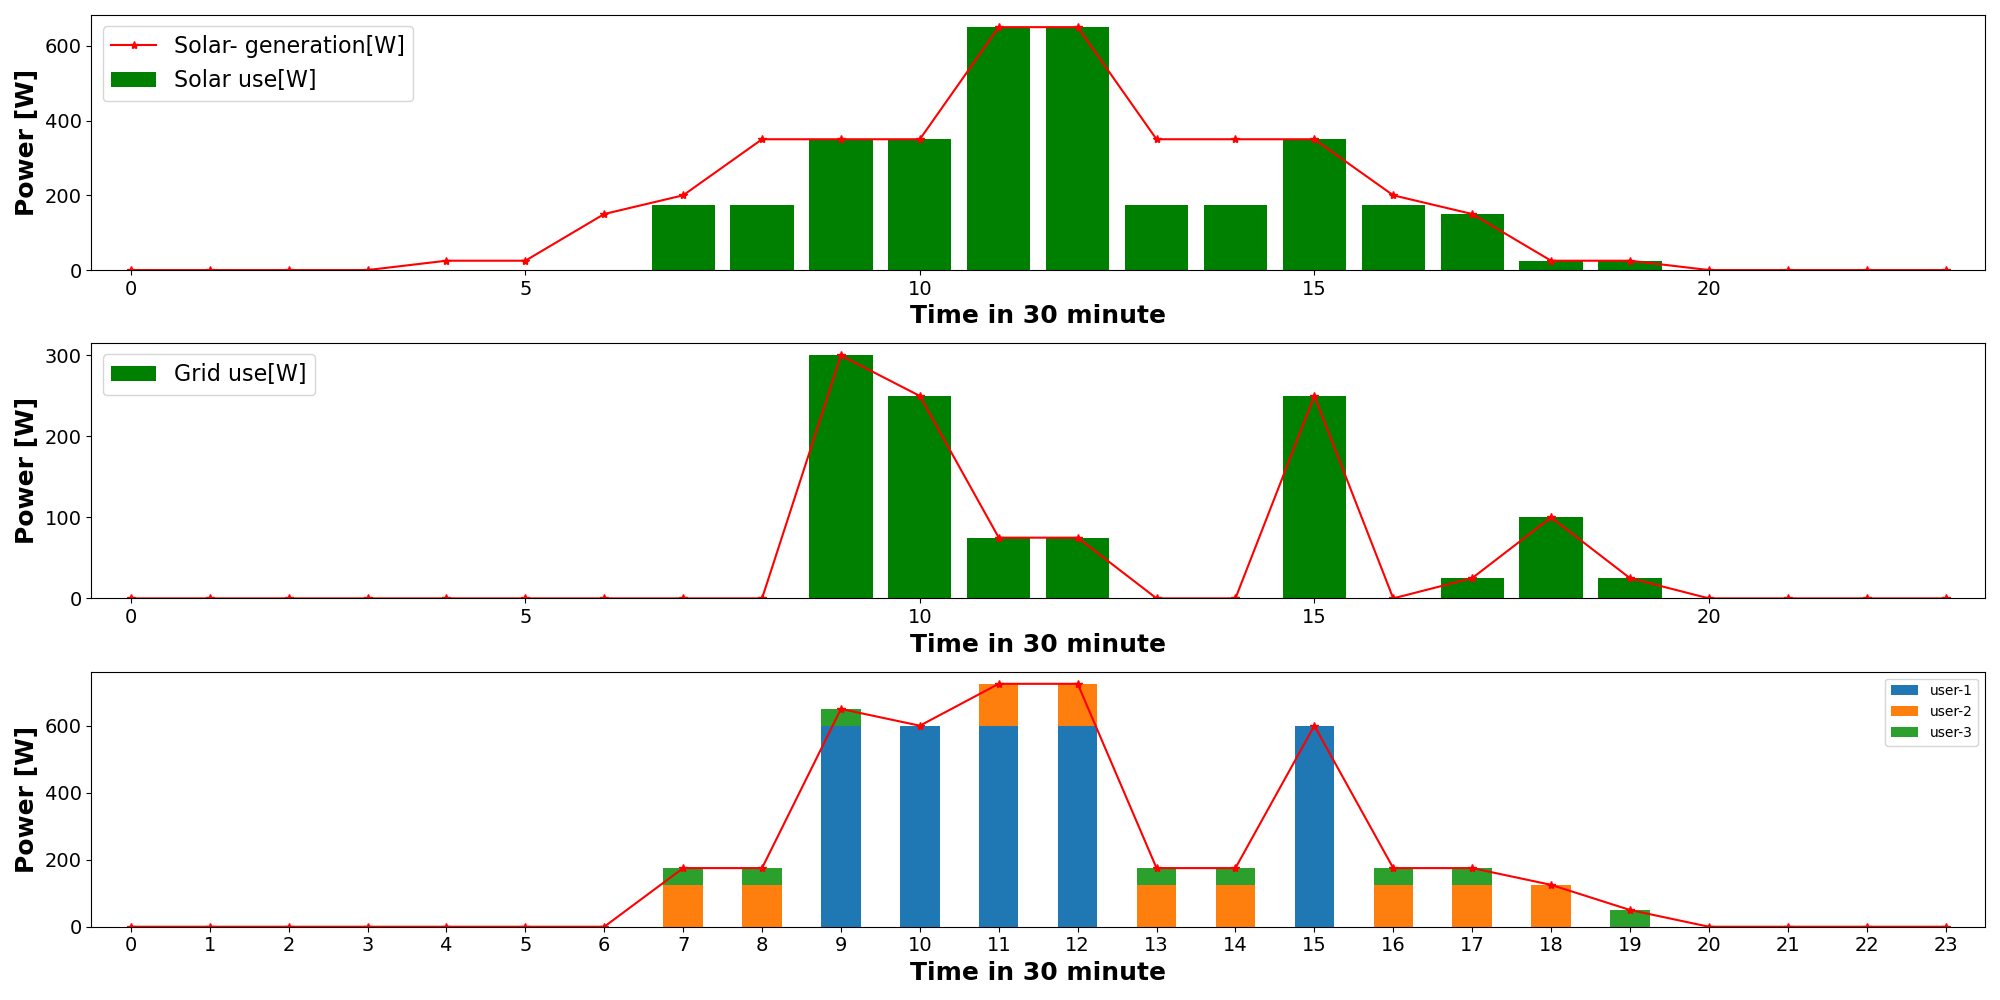
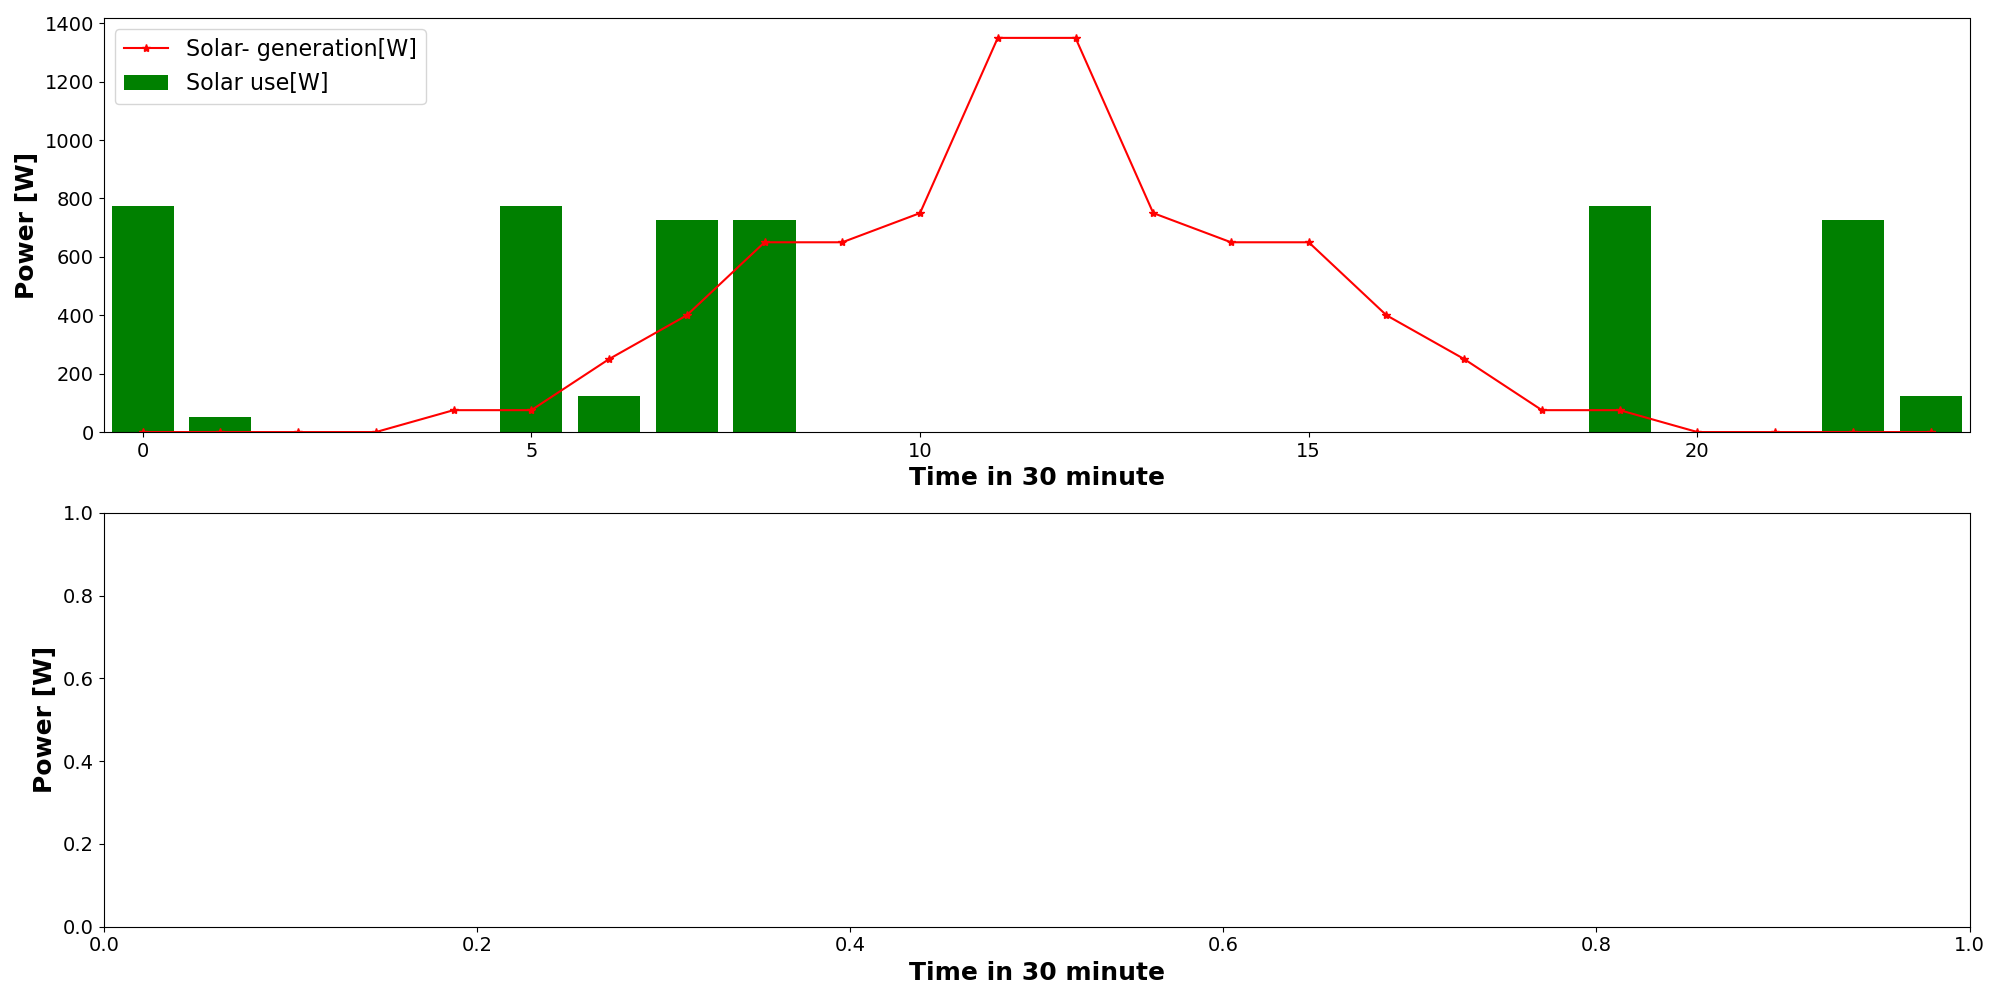
env debuged

diff --git a/multi_user_powerSystem_RL/environments.py b/multi_user_powerSystem_RL/environments.py
@@ -20,7 +20,7 @@ class Environment:
         self.total_consumption = 0
         self.total_supply = 0
         self.operate = [0, 0, 0]
-        self.use_pv_list = [1]
+        self.use_pv_list = [0,1]
         self.agents = ["agent1", "agent2", "agent3"]
         self.num_agent = len(self.agents)
         self.config = {"SolarPV": (0, 0, 0, 0, 50, 50,
@@ -99,6 +99,7 @@ class Environment:
             use_pv = sum(np.array(self.config[pvlist[i]]) for i in self.use_pv_list)
         else:
             use_pv = self.config[pvlist[self.use_pv_list[0]]]
+        self.pv_gen = use_pv
         self.supply = use_pv[self.steps]
 
         penalty = [0 for _ in range(self.num_agent)]
@@ -109,7 +110,7 @@ class Environment:
 
         # operate calculation from action taken by agents
         for i, act in enumerate(action_n.flatten()):
-            if 0 <= act:
+            if 0 < act:
                 self.operate[i] = 1  # ON
                 self.flag[i] = 1
             else:
@@ -122,9 +123,16 @@ class Environment:
                 self.agent3_act.append(self.operate[2])
         # reward calculation
         cost: int = 0
-        balance = 10*(self.supply/1000)-10*(0.6 * self.flag[0] * self.finish_oper[0] + 0.125 * self.flag[1] * self.finish_oper[1] + 0.05 * self.flag[2] * self.finish_oper[2])
-        # if 5 < self.agent1_act.count(1)<6  or 4 < self.agent2_act.count(1) < 7 or 4 < self.agent3_act.count(1) < 7:
-        #     balance += 1
+        need_p = 0.6 * self.flag[0] + 0.125 * self.flag[1] + 0.05 * self.flag[2] 
+        if (self.supply/1000) > need_p:
+            balance = need_p
+        elif self.supply==0 and need_p==0:
+            balance = 2
+        else:
+            balance = -10
+        #balance = 10*(self.supply/1000)-1*(0.6 * self.flag[0] * self.finish_oper[0] + 0.125 * self.flag[1] * self.finish_oper[1] + 0.05 * self.flag[2] * self.finish_oper[2])
+        if 2 < self.agent1_act.count(1)<6  or 6 < self.agent2_act.count(1) < 10 or 5 < self.agent3_act.count(1) < 9:
+            balance += 1
         # self._reset_total_supply(balance)
         cost += balance  # ** 2
         rew_n = [cost, cost, cost]
@@ -132,14 +140,13 @@ class Environment:
         for i in range(len(obs_n)):
             if obs_n[i][1] < 0 and self.operate[i] == 1:  # no pV time more than 1 user penalty
                 rew_n[i] -= 100
-
         for i, act in enumerate(action_n.flatten()):
             if self.steps < self.config[self.agents[i]][4] and self.operate[i] == 1:  # early morning open penalty
                 rew_n[i] -= 100
             elif self.steps > self.config[self.agents[i]][3] and self.operate[i] == 1:  # early morning open penalty
-                rew_n[i] -= 10
+                rew_n[i] -= 100
             elif sum(self.operate) > 2 and act > 0 and self.supply == 0:  # more than 2 at same time penalty
-                rew_n[i] -= 10
+                rew_n[i] -= 100
 
         for i, act in enumerate(action_n.flatten()):
             if self.oper_time[i] > 0 and self.flag[i] == 1:
@@ -148,8 +155,8 @@ class Environment:
                     self.finish_oper[i] = 0
 
         if (self.steps >= self.config["agent1"][3] and self.agent1_act.count(1) < self.config["agent1"][1]) or (
-                self.steps >= self.config["agent2"][3] and self.agent1_act.count(1) < self.config["agent2"][1]) or (
-                self.steps >= self.config["agent3"][3] and self.agent1_act.count(1) < self.config["agent3"][1]):
+                self.steps >= self.config["agent2"][3] and self.agent2_act.count(1) < self.config["agent2"][1]) or (
+                self.steps >= self.config["agent3"][3] and self.agent3_act.count(1) < self.config["agent3"][1]):
             done = [True for _ in range(self.n)]
 
         if self.steps == 0:
@@ -159,13 +166,16 @@ class Environment:
 
         operation_time = [0 for _ in range(self.num_agent)]
         terminal = [1 for _ in range(self.num_agent)]
-        for i in range(len(obs_n)):
-            operation_time[i] = obs_n[i][1] - self.operate[i]
-            terminal[i] -= self.operate[i]
-            if operation_time[i] == 0:
-                break
-        # next_obs_n = [[((self.steps + 1) * terminal[i])/24, operation_time[i],self.operate[0],self.operate[1],self.operate[2]] for i in range(self.n)]
-        next_obs_n = [[((self.steps + 1) * terminal[i]), operation_time[i], self.supply] for i in range(self.n)]
+        acts_list=[self.agent1_act,self.agent2_act,self.agent3_act]
+        for i, acts in enumerate(acts_list):
+            if (self.config[self.agents[i]][1] - acts.count(1))>0:
+                operation_time[i] = 1
+                terminal[i] -= self.operate[i]
+            else:
+                operation_time[i] = self.config[self.agents[i]][1] - acts.count(1)
+                terminal[i] = -1
+
+        next_obs_n = [[(self.steps + 1)*terminal[i]/24, operation_time[i]*self.config[self.agents[i]][0]/self.supply, self.supply/1000] for i in range(self.n)]
         # print("next_obs_n,rew_n,done,steps",next_obs_n,rew_n,done,self.steps,action_n.flatten(),agent1)
         return next_obs_n, rew_n, done, {}
 

diff --git a/multi_user_powerSystem_RL/env_vis.py b/multi_user_powerSystem_RL/env_vis.py
@@ -1,0 +1,81 @@
+from typing import List
+import pandas as pd
+import numpy as np
+import os
+import matplotlib.pyplot as plt
+
+
+class EPlot():
+    """
+    class for plot optimize model output
+    ----------
+    Parameters
+    ----------
+    model : model
+    inf_cls : class having model information
+    """
+
+    def __init__(self, actions: List=[],inf_cls=None) -> None:
+        self.plot_path = "./plot_ouput/"
+        os.makedirs(self.plot_path, exist_ok=True)
+        self.actions = actions
+        self.u_class = inf_cls
+        self.clear_plot()
+        self.t = len(self.actions[0])
+        self.us = self.u_class.num_agent
+        self.user_plot()
+        self.source_plot()
+        # self.dam_plot(model)
+        # self.branch_plot(model)
+        # self.dam_dam_in_out_total_plot(model)
+        # self.dam_dam_in_out_plot(model)
+
+    def user_plot(self):
+        fig, ax = plt.subplots(self.us, figsize=(20, 10))
+        for us in range(self.us):
+            plt.rc('xtick', labelsize=14)
+            plt.rc('ytick', labelsize=14)
+            ax[us].set_xlabel("Time in 30 minute", fontdict={"fontsize": 18, "fontweight": "bold"})
+            ax[us].set_ylabel("Power [W]", fontdict={"fontsize": 18, "fontweight": "bold"})
+            power_use = [self.actions[us][t]*self.u_class.config[self.u_class.agents[us]][0] for t in range(self.t)]
+            x_axis = list(range(self.t))
+            ax[us].plot(x_axis, power_use, "r-*", label="Use-"+str(us)+"[W]")
+            ax[us].bar(x_axis, power_use, color="g", label="Solar use[W]")
+            ax[us].set_xlim(-0.5, self.t-0.5)
+            ax[us].set_title("User-"+str(us))
+            h1, l1 = ax[us].get_legend_handles_labels()
+            ax[us].legend(h1, l1, prop={'size': 16}, bbox_to_anchor=(0, 1), loc='upper left')
+        fig.tight_layout()
+        plt.savefig(self.plot_path+"user_info"+"-gen.png")
+        plt.close()
+
+    def source_plot(self):
+        fig, ax = plt.subplots(2, figsize=(20, 10))
+        for s_n in range(2):
+            plt.rc('xtick', labelsize=14)
+            plt.rc('ytick', labelsize=14)
+            ax[s_n].set_xlabel("Time in 30 minute", fontdict={"fontsize": 18, "fontweight": "bold"})
+            ax[s_n].set_ylabel("Power [W]", fontdict={"fontsize": 18, "fontweight": "bold"})
+            if s_n==0:
+                gen_solar = [self.u_class.pv_gen[t] for t in range(self.t)]
+                total_p = [sum(self.actions[us][t]*self.u_class.config[self.u_class.agents[us]][0] for us in range(self.us))for t in range(self.t)]
+                x_axis = list(range(self.t))
+                ax[0].plot(x_axis, gen_solar, "r-*", label="Solar- generation"+"[W]")
+                ax[0].bar(x_axis, total_p, color="g", label="Solar use[W]")
+                ax[0].set_xlim(-0.5, self.t-0.5)
+                h1, l1 = ax[0].get_legend_handles_labels()
+                ax[0].legend(h1, l1, prop={'size': 16}, bbox_to_anchor=(0, 1), loc='upper left')
+
+        fig.tight_layout()
+        plt.savefig(self.plot_path+"Power-available.png")
+        plt.close()
+
+    
+    def clear_plot(self):
+        for file in os.scandir(self.plot_path):
+            if file.path != self.plot_path+'.ipynb_checkpoints':
+                os.remove(file.path)
+
+
+if __name__ == "__main__":
+    EPlot()

diff --git a/multi_user_powerSystem_RL/main.py b/multi_user_powerSystem_RL/main.py
@@ -125,12 +125,8 @@ for episode in tqdm.trange(args.num_episode):
             agent2_log.append(agent2_episode_log)
             agent3_log.append(agent3_episode_log)
             break
-    np.save('./reward_log/reward_log_{0}'.format("0620"), reward_log)  # plot用
     np.save('./reward_log/episode_reward_log_{0}'.format("0620"), episode_reward_log)  # plot用
-    np.save('./config_nums', config_nums)  # plot用
-    np.save('./action_log/agent1_action_price_log_{0}'.format("0620"), agent1_log)  # plot用
-    np.save('./action_log/agent2_action_price_log_{0}'.format("0620"), agent2_log)  # plot用
-    np.save('./action_log/agent3_action_price_log_{0}'.format("0606"), agent3_log)  # plot用
+
     if episode > 40 and episode % 4 == 0:
         agent.update()
     episode_rewards.append(episode_reward)
@@ -157,14 +153,17 @@ data.to_excel('rewardepisodes.xlsx', sheet_name='sheet1', index=False)
 
 print("args", args)
 print('maximum ep was', max_ep)
-print(np.array([max_sc_1,
+actions =np.array([max_sc_1,
                 max_sc_2,
-                max_sc_3]))
+                max_sc_3])
+print(actions)
 episode_reward_log = np.load('./reward_log/episode_reward_log_0620.npy', allow_pickle=True)
 pyplot.plot(episode_reward_log)
 pyplot.show()
 pyplot.plot
 episode_reward_log2 = pd.DataFrame(episode_reward_log)
 t_average = episode_reward_log2.rolling(window=100).mean()
-plt.plot(t_average, 'k-', label='moving ave reward')
-plt.show()
+# plt.plot(t_average, 'k-', label='moving ave reward')
+# plt.show()
+from env_vis import EPlot
+EPlot(actions, env)
